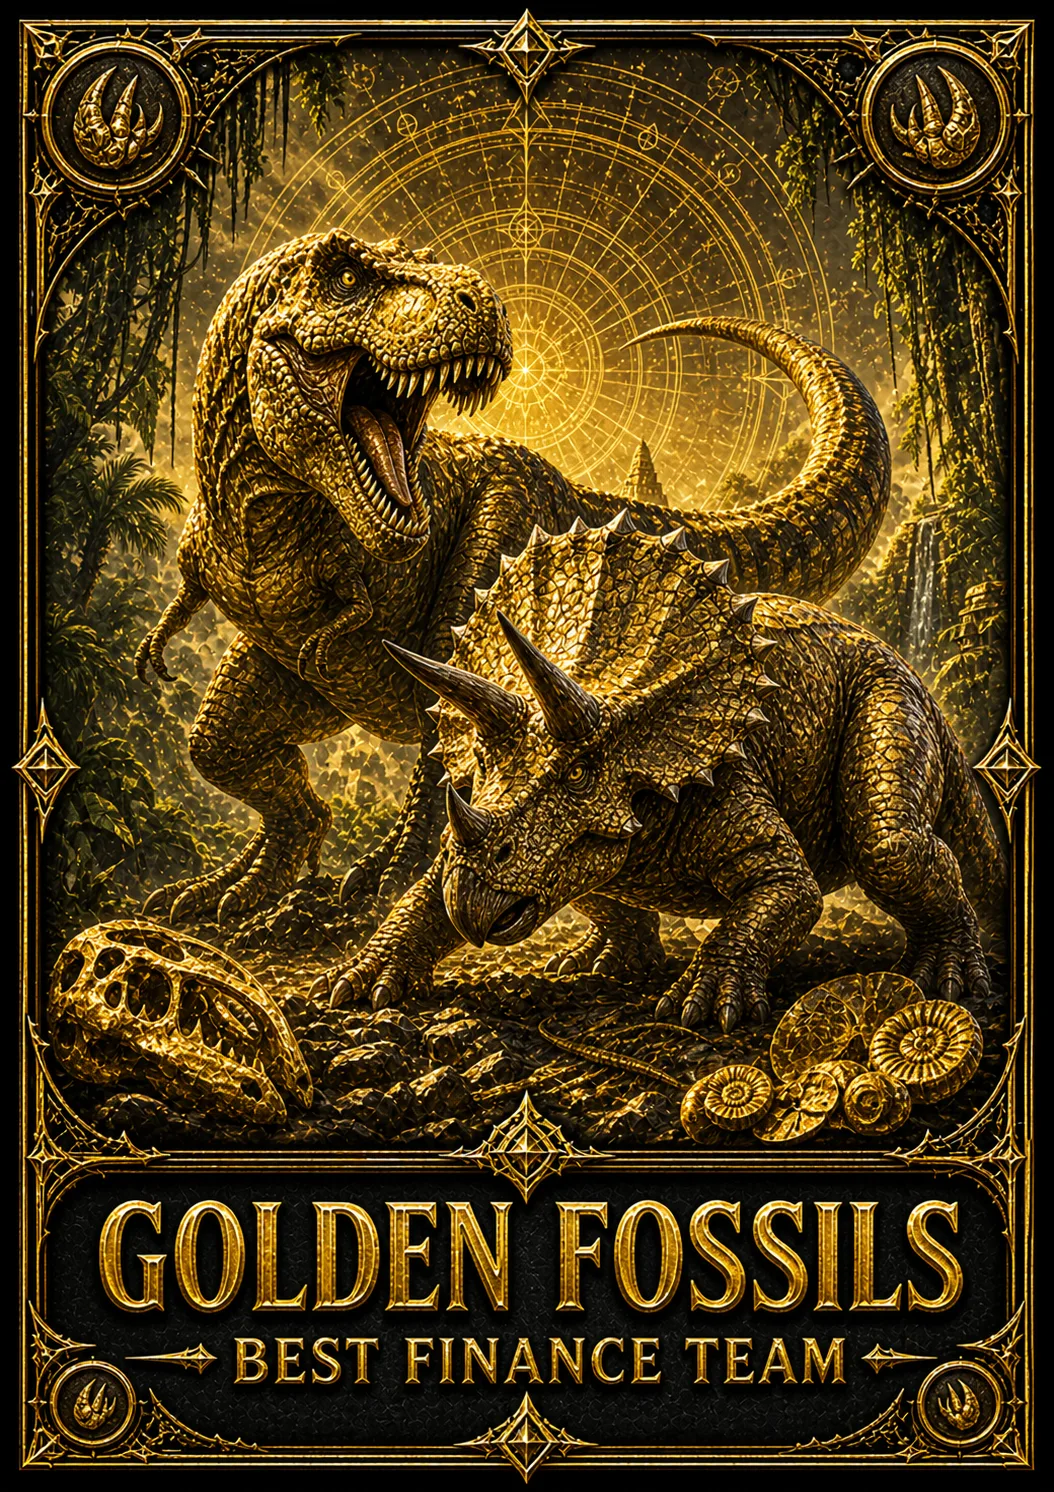
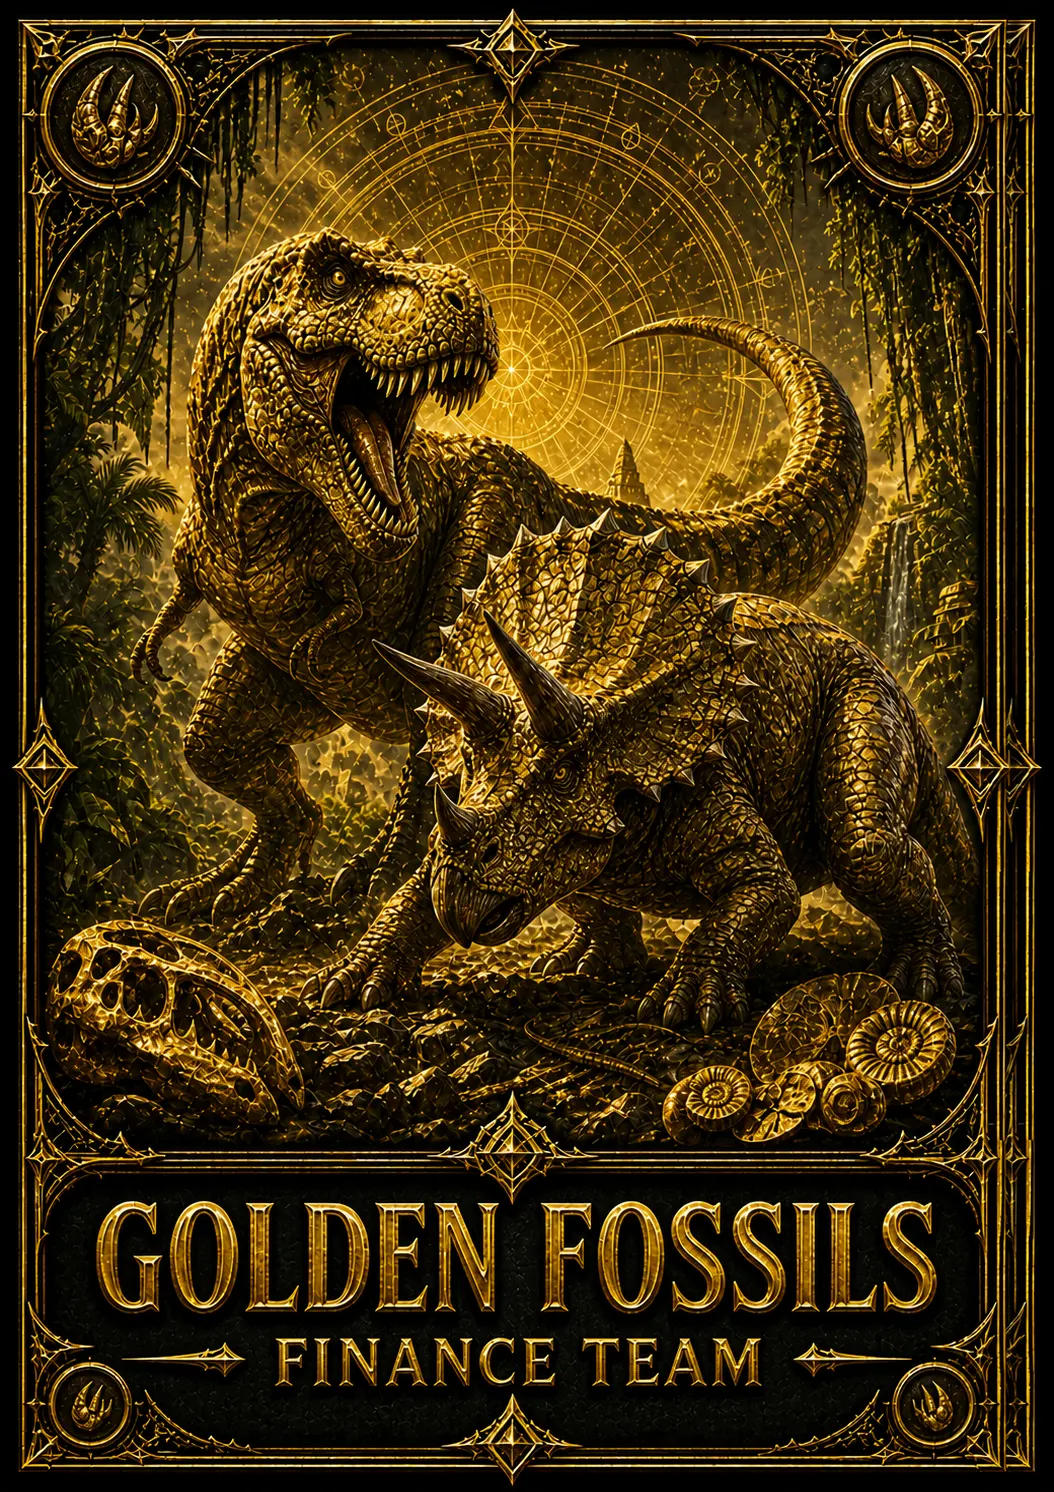
upded cultural data6666

diff --git a/frontend/src/components/EventModal.jsx b/frontend/src/components/EventModal.jsx
@@ -304,6 +304,16 @@ const EventModal = ({ event, isOpen, onClose }) => {
                     </li>
                   ))}
                 </ul>
+                {event.rulePic && (
+                  <div className="mt-5 rounded-2xl overflow-hidden border border-white/10 shadow-xl">
+                    <img
+                      src={event.rulePic}
+                      alt="Event Rules"
+                      className="w-full object-contain"
+                      loading="lazy"
+                    />
+                  </div>
+                )}
               </div>
 
               {/* Student Coordinator */}

diff --git a/frontend/src/data/managementEventsData.js b/frontend/src/data/managementEventsData.js
@@ -1,7 +1,7 @@
 export const managementEventsData = {
   13: {
     id: 13,
-    title: "DNA ARCHITECTS (BEST HR TEAM)",
+    title: "DNA ARCHITECTS (HR TEAM)",
     type: "management",
     category: "Management",
     date: "March 15, 2026",
@@ -36,7 +36,7 @@ export const managementEventsData = {
   },
   14: {
     id: 14,
-    title: "Best Marketing Team – Roar & Reach",
+    title: "Marketing Team – Roar & Reach",
     type: "management",
     category: "Management",
     date: "May 15, 2026",
@@ -44,7 +44,7 @@ export const managementEventsData = {
     // location: "Main Auditorium",
     participants: "Team of 2",
     entryFee: "₹300",
-    description: "“Best Marketing Team – Roar & Reach” is a dynamic competition designed to test creativity, strategic thinking, and teamwork in the ever-evolving world of marketing. Set in the thrilling Jurassic Park theme, this event challenges participants to survive the competitive market jungle by adapting to changing scenarios, innovating bold ideas, and delivering powerful marketing strategies. Just like the mightiest dinosaurs ruled their territory, teams must showcase their ability to think fast, communicate effectively, and make the world hear their brand roar.",
+    description: "“Marketing Team – Roar & Reach” is a dynamic competition designed to test creativity, strategic thinking, and teamwork in the ever-evolving world of marketing. Set in the thrilling Jurassic Park theme, this event challenges participants to survive the competitive market jungle by adapting to changing scenarios, innovating bold ideas, and delivering powerful marketing strategies. Just like the mightiest dinosaurs ruled their territory, teams must showcase their ability to think fast, communicate effectively, and make the world hear their brand roar.",
     rules: [
       "This is a team event, and each team must consist of 2 participants only.",
       "Participants must bring their own laptops for the event."
@@ -106,7 +106,7 @@ export const managementEventsData = {
   },
   16: {
     id: 16,
-    title: "GOLDEN FOSSILS (BEST FINANCE TEAM)",
+    title: "GOLDEN FOSSILS (FINANCE TEAM)",
     type: "management",
     category: "Finance",
     date: "May 15, 2026",

diff --git a/frontend/src/pages/Register.jsx b/frontend/src/pages/Register.jsx
@@ -616,11 +616,11 @@ const Register = () => {
 
                         <div className="flex flex-col items-center gap-4 py-4">
                           <div className="p-4 bg-white rounded-2xl shadow-2xl">
-                            {/* Dynamic UPI QR Code */}
+                            {/* Static College UPI QR Code */}
                             <img
-                              src={`https://api.qrserver.com/v1/create-qr-code/?size=250x250&data=upi://pay?pa=prinsonroyal11@okaxis&pn=AJ%20ASTRIX&am=${totalFee}&cu=INR`}
+                              src="/images/upi/college-upi.webp"
                               alt="Payment QR"
-                              className="w-48 h-48"
+                              className="w-48 h-48 object-contain"
                             />
                           </div>
                           <p className="text-[9px] font-black text-white/30 uppercase tracking-[0.2em] text-center max-w-[200px]">

diff --git a/frontend/src/data/culturalEventsData.js b/frontend/src/data/culturalEventsData.js
@@ -44,7 +44,8 @@ export const culturalEventsData = {
         // contact: "TBD",
       }
     ],
-    image: "/images/cards/card9.webp"
+    image: "/images/cards/card9.webp",
+    rulePic: "/images/event-rule-pic/walk.jpeg"
   },
   10: {
     id: 10,